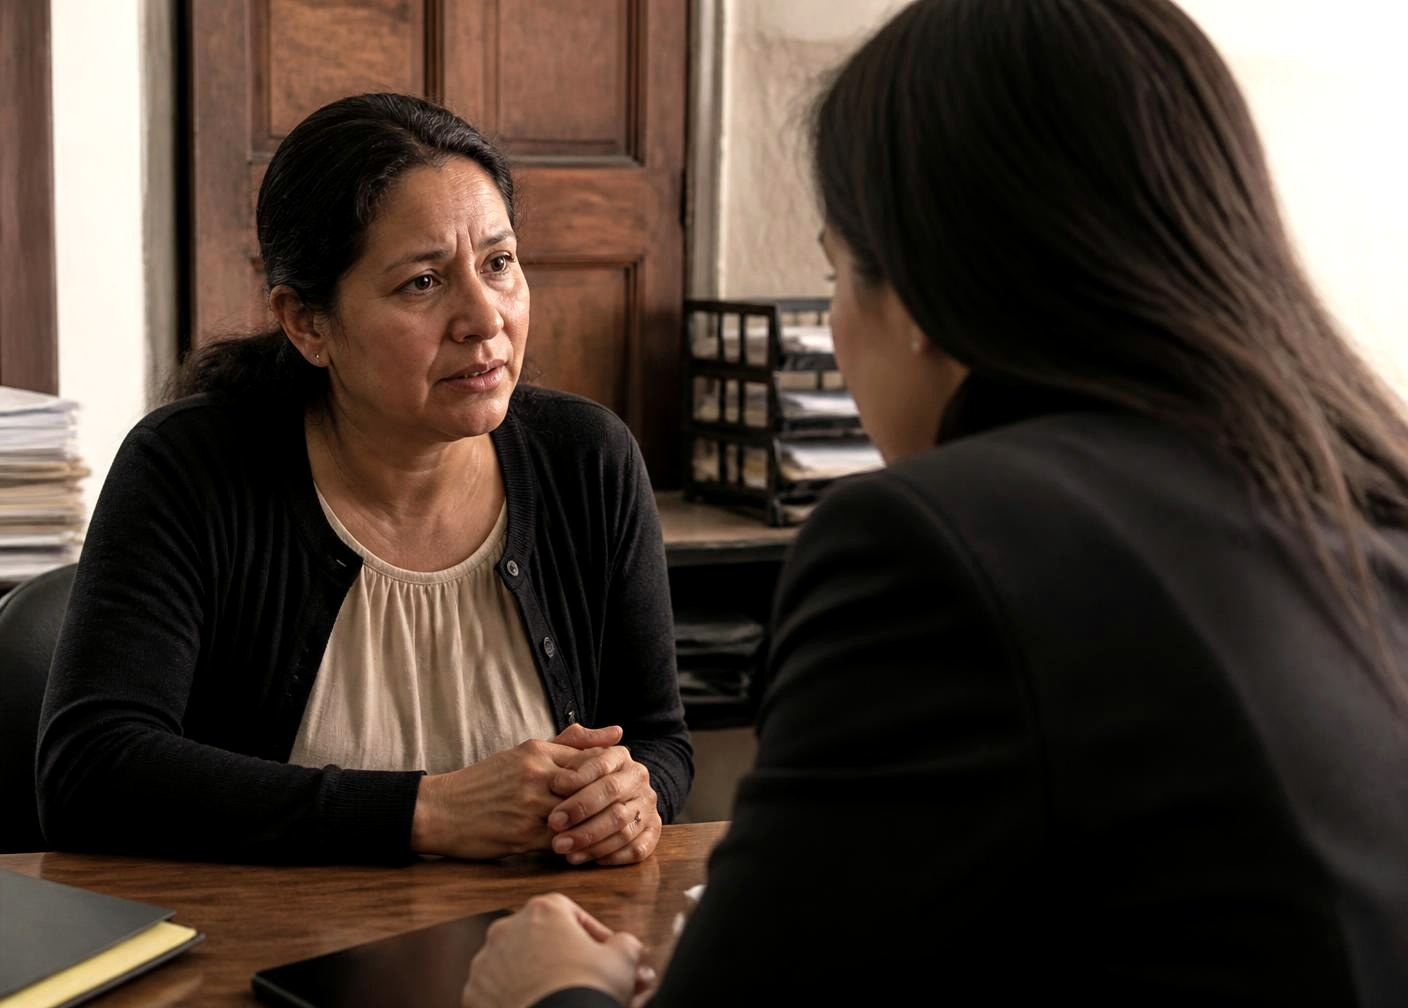
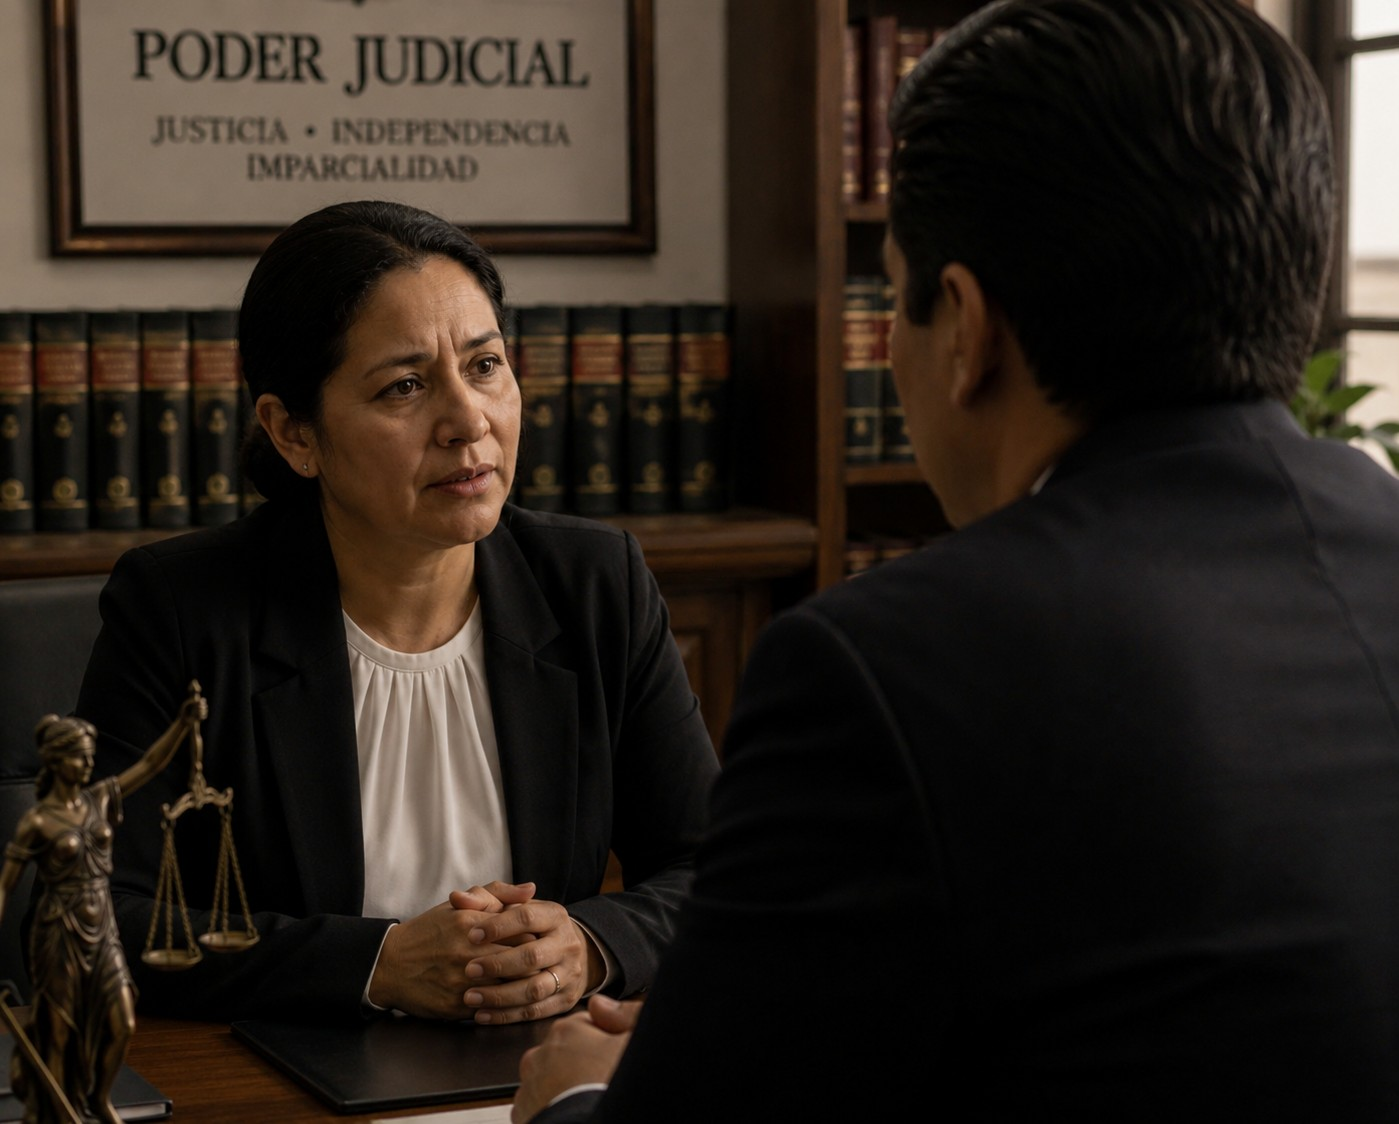
cambios chidos

diff --git a/src/routes/beneficios.tsx b/src/routes/beneficios.tsx
@@ -18,6 +18,7 @@ import imgBlancDental from "@/assets/convenio-blanc-dental.jpg";
 import imgTerapiasIntegrales from "@/assets/convenio-terapias-integrales.jpg";
 import imgArantxaGaray from "@/assets/convenio-arantxa-garay.jpg";
 import guiaEstudioImg from "@/assets/guia-de-estudio.jpg";
+import beneficiosHeroImg from "@/assets/beneficios-escritorio.jpg";
 
 const IMAGENES: Record<string, string> = {
   "studio-520": imgStudio520,
@@ -107,6 +108,8 @@ function BeneficiosPage() {
         eyebrow="Beneficios"
         title="Convenios que sí se negocian de forma colectiva"
         intro="Cada beneficio se publica con sus condiciones completas. Si un convenio no está aquí, no está vigente."
+        image={beneficiosHeroImg}
+        imageAlt="Escritorio de despacho jurídico con balanza, birrete y libros de derecho"
       />
 
       <Section>

diff --git a/src/routes/contacto.tsx b/src/routes/contacto.tsx
@@ -5,6 +5,7 @@ import { toast } from "sonner";
 import { Mail, MapPin, Phone } from "lucide-react";
 import { Eyebrow, PageHero, Section } from "@/components/site/Bits";
 import { CONTACTO } from "@/lib/site-data";
+import contactoHeroImg from "@/assets/contacto-header.jpg";
 
 export const Route = createFileRoute("/contacto")({
   head: () => ({
@@ -58,6 +59,8 @@ function ContactoPage() {
         eyebrow="Contacto"
         title="Hablemos"
         intro="Información general, afiliación, convenios o representación en tu centro de trabajo."
+        image={contactoHeroImg}
+        imageAlt="Escritorio con la insignia de la Unión Nacional de Trabajadores del Poder Judicial"
       />
 
       <Section>
